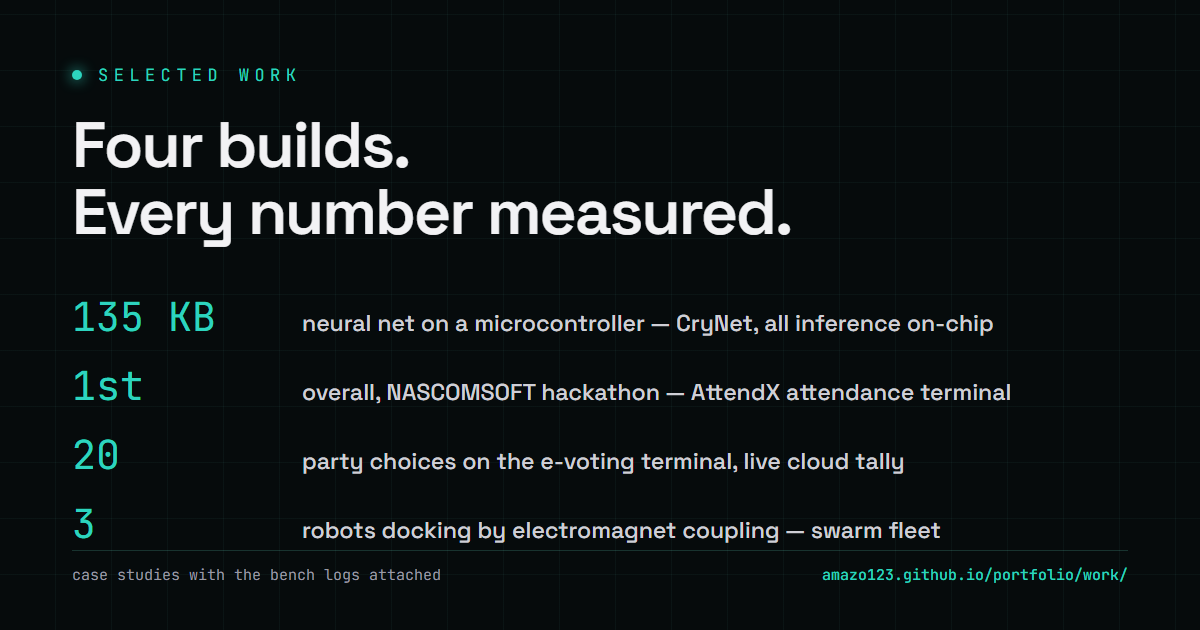
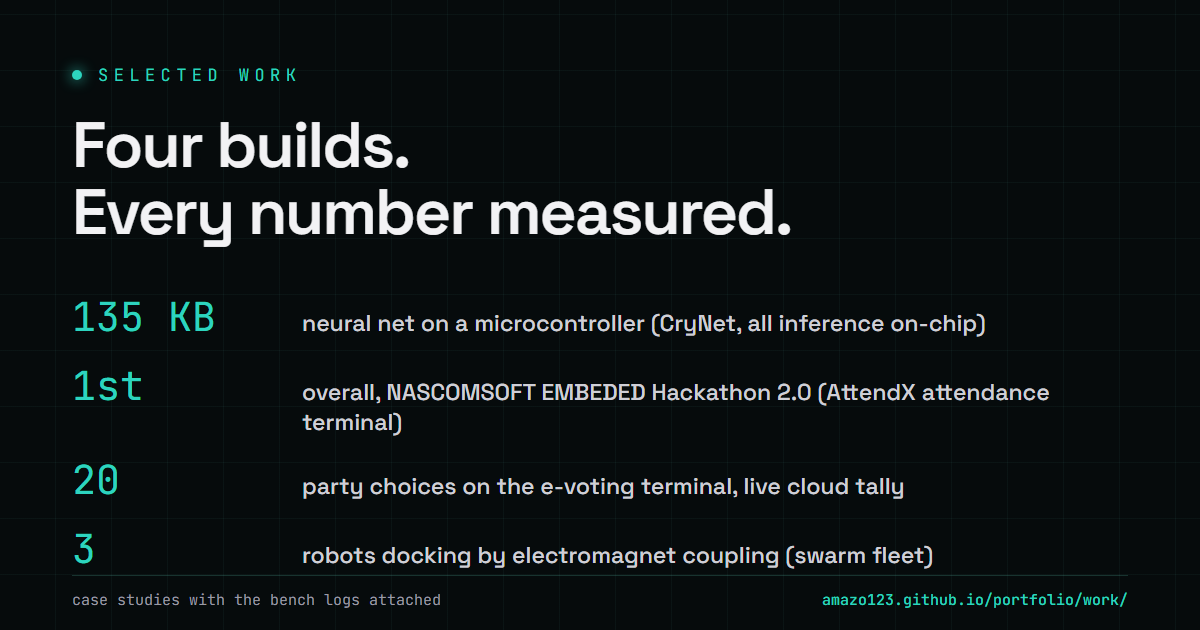
Copy corrections: role targeting, email CTAs, dash sweep, project list
- All role lines now say "embedded systems engineering roles" (no "junior", no "firmware")
- Email CTAs open a Gmail compose window; mailto did nothing without a configured mail client
- Footer base reduced to (c) year + location; "Actively maintained" line removed
- Removed smart medical wearable and poultry snake-detection bench cards (9 -> 7 builds)
- Vault lock corrected to CirkitDesigner, not Proteus
- Toolbox marquee trimmed; Python/Git/SQL/multimeters/power budgeting stay on About only
- Em-dash sweep across all visible copy; "debugged by hand" and "hand-written C" reworded
- Hero names the NASCOMSOFT EMBEDED Hackathon 2.0; lab dossier caption removed
- Location is Maiduguri only; OG images regenerated

diff --git a/src/lib/projects.ts b/src/lib/projects.ts
@@ -33,13 +33,13 @@ export const caseStudies: CaseStudy[] = [
     slug: 'attendx',
     index: '02',
     title: 'AttendX',
-    subtitle: 'Biometric staff attendance terminal — TEAM RAMP',
+    subtitle: 'Biometric staff attendance terminal · TEAM RAMP',
     year: '2026',
     kind: 'Hackathon · NASCOMSOFT TEAM RAMP',
     status: 'built · demo',
     summary:
-      'A biometric attendance terminal on an ESP32-S3-CAM: SFM-V1.7 capacitive fingerprint module, 16×2 LCD, 4×4 keypad, and a 3D-printed enclosure. PIN clock-ins trigger an automatic camera snapshot so proxy attendance leaves evidence. 1st place overall out of the whole NASCOMSOFT hackathon.',
-    heroMetric: { value: '1st', label: 'Overall — TEAM RAMP grand finale' },
+      'A biometric attendance terminal on an ESP32-S3-CAM: SFM-V1.7 capacitive fingerprint module, 16×2 LCD, 4×4 keypad, and a 3D-printed enclosure. PIN clock-ins trigger an automatic camera snapshot so proxy attendance leaves evidence. 1st place overall at the NASCOMSOFT EMBEDED Hackathon 2.0.',
+    heroMetric: { value: '1st', label: 'Overall · TEAM RAMP grand finale' },
     tags: ['ESP32-S3-CAM', 'SFM-V1.7', 'UART', 'I²C LCD', '3D print'],
     stack: ['ESP32-S3-CAM', 'SFM-V1.7', 'LCD 16×2', '4×4 keypad', 'C++'],
     accent: 'amber',
@@ -122,7 +122,7 @@ export const shortCards: ShortCard[] = [
     year: '2026',
     status: 'firmware + circuit design',
     summary:
-      'Automated irrigation rig driven by soil-moisture thresholds — pump control through a relay with sensor-debounce logic. Firmware and circuit diagram delivered; not yet on hardware.',
+      'Automated irrigation rig driven by soil-moisture thresholds, with pump control through a relay and sensor-debounce logic. Firmware and circuit diagram delivered; not yet on hardware.',
     tags: ['ATmega328P', 'Moisture sensing', 'Relay', 'Proteus'],
     accent: 'plain',
     source: 'NASCOMSOFT EMBEDED · week 23 assignment',
@@ -138,71 +138,51 @@ export const shortCards: ShortCard[] = [
     source: 'Personal build',
   },
   {
-    title: 'Obstacle-avoidance robot — veroboard build',
+    title: 'Obstacle-avoidance robot · veroboard build',
     year: '2026',
     status: 'built & tested',
     summary:
-      'ATmega328P DIP-28 on hand-soldered veroboard — no Arduino board in the loop. HC-SR04 ranging with a 20 cm trigger limit driving an L298N differential drive.',
+      'ATmega328P DIP-28 on hand-soldered veroboard, no Arduino board in the loop. HC-SR04 ranging with a 20 cm trigger limit driving an L298N differential drive.',
     tags: ['ATmega328P', 'Veroboard', 'HC-SR04', 'L298N'],
     accent: 'accent',
     source: 'Personal build',
   },
   {
-    title: 'Electronic vault lock — Proteus study',
+    title: 'Electronic vault lock · CirkitDesigner study',
     year: '2026',
     status: 'simulation',
     summary:
-      'Arduino Uno vault door: 4×4 keypad code entry, servo latch, buzzer, RFID and status LEDs — designed and simulated end-to-end in Proteus as a systems-integration exercise.',
-    tags: ['Proteus', 'Keypad', 'Servo', 'RFID'],
+      'Arduino Uno vault door: 4×4 keypad code entry, servo latch, buzzer, RFID and status LEDs, designed and simulated end-to-end in CirkitDesigner as a systems-integration exercise.',
+    tags: ['CirkitDesigner', 'Keypad', 'Servo', 'RFID'],
     accent: 'plain',
     source: 'SIWES · NASCOMSOFT EMBEDED',
-  },
-  {
-    title: 'Smart medical wearable',
-    year: '2026',
-    status: 'early prototype',
-    summary:
-      'A separate wearable health concept from the CryNet alert band — vitals sensing on an ESP32 platform with BLE to a phone. Early prototype stage.',
-    tags: ['ESP32', 'BLE', 'Wearable'],
-    accent: 'plain',
-    source: 'NASCOMSOFT / personal',
-  },
-  {
-    title: 'Poultry snake-detection system',
-    year: '2026',
-    status: 'concept → prototype',
-    summary:
-      'Perimeter alerting for poultry houses: detection zones wired to alarm outputs so an intruder snake trips a local siren before it reaches the birds.',
-    tags: ['Sensors', 'Alarm logic', 'Prototyping'],
-    accent: 'plain',
-    source: 'NASCOMSOFT / personal',
   },
 ];
 
 export const timeline = [
   {
-    period: 'Jun — Nov 2026',
+    period: 'Jun–Nov 2026',
     title: 'Embedded Systems Intern',
     org: 'NASCOMSOFT EMBEDED LTD, Bauchi',
     note: 'Proteus-first design workflow, LoRa + GSM telemetry nodes, P10 LED board assembly, oscilloscope-level troubleshooting. Featured in the NASCOMSOFT Student Spotlight.',
     tags: ['SIWES'],
   },
   {
-    period: 'Aug — Oct 2026',
-    title: 'Product Manager & Hardware Engineer — TEAM RAMP',
-    org: 'NASCOMSOFT EMBEDED annual hackathon',
+    period: 'Aug–Oct 2026',
+    title: 'Product Manager & Hardware Engineer, TEAM RAMP',
+    org: 'NASCOMSOFT EMBEDED Hackathon 2.0',
     note: 'Led a 4-person team to 1st place overall with AttendX, a biometric attendance terminal. Owned the physical build: ESP32-S3-CAM, fingerprint module, enclosure, fallback camera logic.',
     tags: ['1st place'],
   },
   {
-    period: 'Aug — Sep 2026',
+    period: 'Aug–Sep 2026',
     title: 'Robotics & Electronics Volunteer Instructor',
     org: 'CEAISES & ATBU, Bauchi',
     note: 'Four-week children’s camp teaching electronics, breadboarding and sensor interfacing. Mentored Group Six to 1st place in the Grand Finale Maze Race.',
     tags: ['Teaching'],
   },
   {
-    period: '2022 — 2027 (exp.)',
+    period: '2022–2027 (exp.)',
     title: 'B.Eng. Computer Engineering',
     org: 'University of Maiduguri',
     note: 'Microprocessor systems, embedded systems design, digital electronics & logic design, control systems, computer architecture, data communications, signals & systems.',

diff --git a/src/lib/site.ts b/src/lib/site.ts
@@ -3,8 +3,11 @@ export const site = {
   role: 'Embedded Systems Engineer',
   tagline: 'Final-year B.Eng. Computer Engineering · University of Maiduguri',
   email: 'amazingadelowo@gmail.com',
+  // mailto: links silently do nothing on machines with no mail client configured,
+  // so every email CTA opens a Gmail compose window in the browser instead.
+  emailCompose: 'https://mail.google.com/mail/?view=cm&fs=1&to=amazingadelowo@gmail.com',
   phone: '+234 901 877 8748',
-  location: 'Maiduguri · Bauchi, Nigeria',
+  location: 'Maiduguri, Nigeria',
   github: 'https://github.com/Amazo123',
   githubLabel: 'github.com/Amazo123',
   linkedin: 'https://linkedin.com/in/amazing-adelowo-15b129200',
